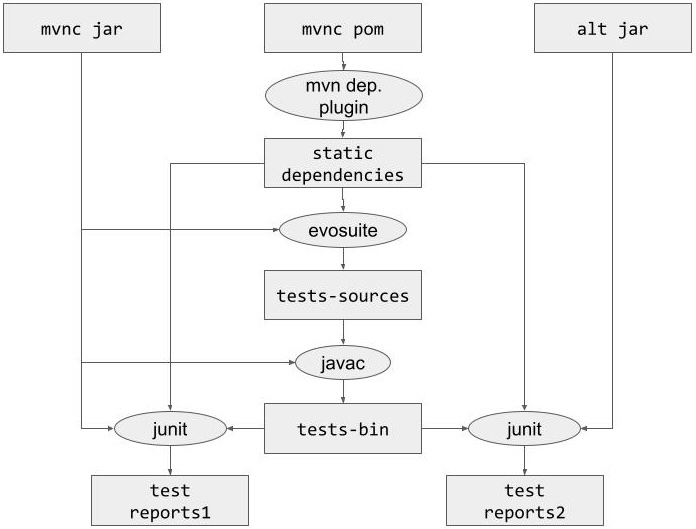
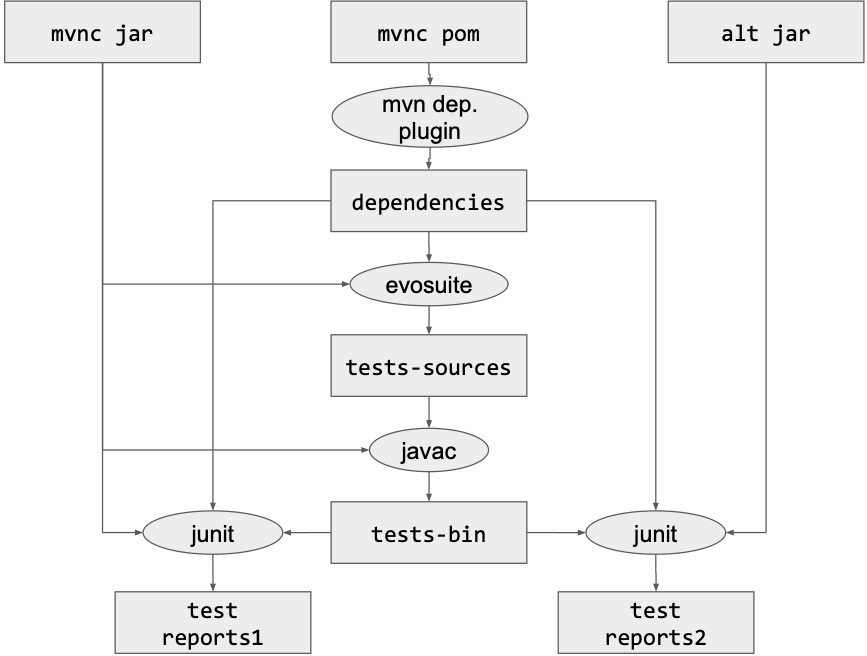
edited paper

diff --git a/paper/cross-build-regression-testing.tex b/paper/cross-build-regression-testing.tex
@@ -102,25 +102,26 @@ test generation, differential testing, reproducible builds, software supply chai
 Software supply chain security has attracted increasing attention recently after a number of high impact attacks such as \textit{equifax}, \textit{log4shell}, \textit{solarwinds} and \textit{xz}~\cite{ellison2010evaluating,martinez2021software,enck2022top,EO14028}. In general, those fall into two categories - compromising components (such as \textit{equifax} and \textit{log4shell}), and compromising processes (such as \textit{solarwinds} and \textit{xz}). When build processes are compromised, attackers can inject malicious code into a program, resulting in a vulnerable program build from clean source code. The classic approach to achieve this is to compromise the compiler~\cite{thompson1984reflections}. 
 
 A common counter measure are reproducible builds~\cite{reproduciblebuild, lamb2021reproducible}. The idea is to perform a second build leading to the same binary. As an adversary is very unlikely to compromise two build environments, this can confirm the integrity of the binary with a high probability. Establishing that the binaries are identical is usually done by means of bitwise comparison, often using cryptographic hashes as proxies.
-Several organisations have started to provide infrastructure and services to provide such secondary builds at-scale, often meeting additional security-related requirements, such as SLSA compliance~\cite{slsa}. Two such products that include support for Java / Maven artifacts are \textit{Google's Assured Open Source Software (gaoss)}~\footnote{\url{https://cloud.google.com/security/products/assured-open-source-software}}, and \textit{Oracle's Build-From-Source (obfs})~\footnote{\url{https://maven.oracle.com/public/}}.
+Several organisations have started to provide infrastructure and services to provide such secondary builds at-scale, often meeting additional security-related requirements, such as SLSA compliance~\cite{slsa}. Two such products that include support to build Java / Maven artifacts are \textit{Google's Assured Open Source Software (gaoss)}~\footnote{\url{https://cloud.google.com/security/products/assured-open-source-software}}, and \textit{Oracle's Build-From-Source (obfs})~\footnote{\url{https://maven.oracle.com/public/}}.
 
 However, there are several challenges with the reproducibility of builds: (i) build environments are difficult to replicate, (ii) locating the source code version (commit, tag or release) associated with a binary release version is not always straightforward and (iii) builds may be non-deterministic~\cite{xiong2022towards,hassanshahi2023macaron,bineqdataset,keshani2024aroma}. In particular, different versions of compilers may employ different compilation strategies, resulting in different, yet functionally equivalent binaries~\cite{xiong2022towards,bineqdataset,schott2024JNorm}.  
 In order to address this, recently bytecode normalisation techniques have been proposed~\cite{xiong2022towards,dietrich2024levelsbinaryequivalencecomparison,schott2024JNorm}. 
 
-From a security analysis point of view, the comparison of binaries from alternative builds is used to detect vulnerabilities: different binaries may suggest that one of them has been compromised, for instance, by a backdoor being added during the build. A comparison based on strict binary equality is likely to result in poor precision as differences between binaries can be explained by the variability of compilers and other tools used in the build toolchain. Low precision is known to have a serious impact on the acceptance of program analysis tools by engineers~\cite{sadowski2018lessons,distefano2019scaling}. Using bytecode normalisation techniques such as \textit{jnorm}~\cite{schott2024JNorm} can help to reduce the false positive rate by identifying \textit{equivalent} binaries. The question arises whether binaries built from the same sources that are not equivalent actually have behavioural differences.   
+From a security analysis point of view, the comparison of binaries from alternative builds is used to detect vulnerabilities: different binaries may suggest that one of them has been compromised, for instance, by a backdoor being added during the build. A comparison based on strict binary equality is likely to result in poor precision as differences between binaries can be explained by the variability of compilers and other tools used in the build toolchain. Low precision is known to have a serious impact on the acceptance of program analysis tools by engineers~\cite{sadowski2018lessons,distefano2019scaling}. Using bytecode normalisation techniques such as \textit{jnorm}~\cite{schott2024JNorm} can help to reduce the false positive rate by identifying \textit{equivalent} binaries. The question arises whether binaries built from the same sources that are not equivalent actually have behavioural differences. A good way to check this is to find or construct test cases to demonstrate such differences.
 
 This is the question we set out to study. We use test case generation with \evosuite~\cite{fraser2011evosuite} to synthesise regression tests for a baseline build, and then use those tests to assess whether these tests behave in the same way on programs that are the result of an alternative  build from the same sources. 
 
-We find that .. 
-
+% Jens: can drop this if we need space
+The paper is organised as follows: in Section~\ref{sec:methodology} we describe the methodology used in our study.  Results are discussed in Section~\ref{sec:results}, followed by a brief overview of related work in Section~\ref{sec:relatedwork} and the conclusion (Section~\ref{sec:conclusion}.
 
 \section{Methodology}
+\label{sec:methodology}
 
 
 
 \subsection{Overview}
 
-An overview of our methodology is depicted in Figure~\ref{fig:methodology}.  As a baseline build we use (the builds used to produce) the artifact distributed on Maven Central\footnote{\url{https://central.sonatype.com/}} as this is the default deployment repository for most open source developers.  From there we obtain the binary (jar file containing Java bytecode) \textit{mvnc jar} and the pom \textit{mvnc pom}. From this pom we extract the \textit{static dependencies} using the Maven dependency plugin~\footnote{\url{https://maven.apache.org/plugins/maven-dependency-plugin/}}.  The \textit{mvnc jar} and the \textit{static dependencies} can then be used as input to generate \textit{tests-sources} with \evosuite, which are then compiled into test binaries \textit{test-bin}.  Finally, those tests can then be executed against the original jar \textit{mvnc jar} and some alternative jar (from a different build) \textit{alt jar}, and the resulting test reports can be compared.
+An overview of our methodology is depicted in Figure~\ref{fig:methodology}.  As a baseline build we use the artifacts distributed on Maven Central\footnote{\url{https://central.sonatype.com/}} as this is the default deployment repository for most open source developers.  From there we obtain the binary (jar file containing Java bytecode) \textit{mvnc jar} and the pom \textit{mvnc pom}. From this pom we extract the \textit{dependencies} using the Maven dependency plugin~\footnote{\url{https://maven.apache.org/plugins/maven-dependency-plugin/}}.  The \textit{mvnc jar} and the \textit{dependencies} can then be used as input to generate \textit{tests-sources} with \evosuite, which are then compiled into test binaries \textit{test-bin}.  Finally, those tests can then be executed against the original jar \textit{mvnc jar} and some alternative jar (from a different build) \textit{alt jar}, and the resulting test reports can be compared.
 
 \begin{figure}[ht!]
 	\centering
@@ -136,7 +137,7 @@ We started with the dataset from \cite{dietrich2024levelsbinaryequivalencecompar
 
 \subsection{Static Preanalysis}
 
-We then run a static pre-analysis to eliminate pairs that are probably equivalent. We first applied \textit{jnorm}, and compared jars by comparing the result of the transformation applied to each class. We then added a custom comparison based on a change in the Java 18 compiler~\footnote{\url{https://github.com/openjdk/jdk/pull/5165}} not yet supported by \textit{jnorm}. This resulted in \inputgen{num-jar-pairs-after-invokevirtual-invokeinterface} pairs of jars, \inputgen{num-jar-pairs-after-invokevirtual-invokeinterface-gaoss} of those pairs with an alternatively built jar from \textit{gaoss}, \inputgen{num-jar-pairs-after-invokevirtual-invokeinterface-obfs} with such a jar from \textit{obfs}.
+We then run a static pre-analysis to eliminate pairs that are probably equivalent. We first applied \textit{jnorm}~\cite{schott2024JNorm} \jens{Tim: can you add a footnote with version and args used here}, and compared jars by comparing the result of the transformation applied to each class. We then added a custom comparison based on a change in the Java 18 compiler~\footnote{\url{https://github.com/openjdk/jdk/pull/5165}} not yet supported by \textit{jnorm}. This resulted in \inputgen{num-jar-pairs-after-invokevirtual-invokeinterface} pairs of jars, \inputgen{num-jar-pairs-after-invokevirtual-invokeinterface-gaoss} of those pairs with an alternatively built jar from \textit{gaoss}, \inputgen{num-jar-pairs-after-invokevirtual-invokeinterface-obfs} with such a jar from \textit{obfs}.
 In total there are \inputgen{num-class-pairs-after-invokevirtual-invokeinterface} classes that differ between \textit{mvnc} and one of the other two providers.
 
 
@@ -145,35 +146,31 @@ In total there are \inputgen{num-class-pairs-after-invokevirtual-invokeinterface
 
 We opted to generate tests for these experiments. The reason is that existing tests that are part of the project are usually executed during builds, i.e., alternative builds would ensure that those tests succeed. 
 
-\todo[inline]{Behnaz to confirm that tests are executed in OBF builds}
+We used \evosuite to generate regression tests. \jens{@Tim: please add version info} While there are several alternatives available for test generation for Java program, recent benchmarks have shown the superior performance of \evosuite~\cite{jahangirova2023sbft} in achieving higher code coverage and mutation scores. 
 
-We used \evosuite to generate regression tests. While there are several alternatives available for Java, recent benchmarks have shown the superior performance of \evosuite~\cite{jahangirova2023sbft} in achieving higher code coverage and mutation scores. 
+%\valerio{I added some background on evosuite and regression testing in general, not sure where we want to put this but I think is important to explain how \evosuite exposes the behavioural differences}
+\evosuite automatically generates test cases for a given object-oriented class under test (CUT). A test case consists of (i) a method call sequence that instantiates and modifies the state of objects of the CUT through method invocations (ii) one or more assertions that predicate on the values returned by the method invocations. The state of objects often dictates program behaviour, so manipulating these states is crucial for achieving high coverage. It is worth noting that \evosuite may need to create and modify objects that do not instantiate the CUT, as the methods of the CUT might require non-primitive parameters. For primitive parameters, \evosuite uses randomized values guided by heuristics. The tool implements an evolutionary algorithm that evolves populations of test cases to maximize code coverage, typically targeting branch coverage.
 
-\valerio{I added some background on evosuite and regression testing in general, not sure where we want to put this but I think is important to explain how \evosuite exposes the behavioural differences}
-\evosuite automatically generates test cases for a given object-oriented class under test (CUT). A test case consists of (i) a method call sequence that instantiates and modifies the state of objects of the CUT through method invocations (ii) one or more assertions that predicate on the values returned by the method invocations. The state of objects often dictates program behavior, so manipulating these states is crucial for achieving high coverage. It is worth noting that \evosuite may need to create and modify objects that do not instantiate the CUT, as the methods of the CUT might require non-primitive parameters. For primitive parameters, \evosuite uses randomized values guided by heuristics. The tool implements an evolutionary algorithm that evolves populations of test cases to maximize code coverage, typically targeting branch coverage.
-
-\evosuite and similar automated testing tools are most effective when running in regression mode due to the oracle problem. In fact, they are predominantly evaluated in this mode~\cite{jahangirova2023sbft,shamshiri2015automatically}. While the oracle problem is one of the greatest challenges in test automation, it is mitigated in the context of regression testing, where we assume that one version is correct. In regression mode, \evosuite adds assertions to the generated test cases that capture the ``implemented'' behavior of the given version. These assertions are based on the actual values returned by method call invocations during execution, without regard for the ``intended'' behavior of the CUT. This approach can effectively expose behavioral differences between two implementations: if a test generated for one version fails on another version, it indicates a behavioral difference.
+\evosuite and similar automated testing tools are most effective when running in regression mode due to the oracle problem. In fact, they are predominantly evaluated in this mode~\cite{jahangirova2023sbft,shamshiri2015automatically}. While the oracle problem is one of the greatest challenges in test automation, it is mitigated in the context of regression testing, where we assume that one version is correct. In regression mode, \evosuite adds assertions to the generated test cases that capture the ``implemented'' behaviour of the given version. These assertions are based on the actual values returned by method call invocations during execution, without regard for the ``intended'' behaviour of the CUT. This approach can effectively expose behavioural differences between two implementations: if a test generated for one version fails on another version, it indicates a behavioural difference.
 
 \evosuite can be set up to generate targeted tests for certain classes. Since the static pre-analysis compares \textit{jar} files by comparing the \textit{.class} files they contain, we can use targeted test generation for those classes only.   
 
-\todo[inline] {Tim: some stats of how many classes there are that are different, perhaps stats , something like: the average number of such classes is X, Y\% of total classes. Mention how we deal with inner classes.  }
+\jens{Tim: some stats of how many classes there are that are different, perhaps stats , something like: the average number of such classes is X, Y\% of total classes. Mention how we deal with inner classes.  }
 
 \evosuite was applied to generate regression tests for the \textit{mvnc} version of each of these \inputgen{num-class-pairs-after-invokevirtual-invokeinterface} differing classes, resulting in \inputgen{num-classes-with-generated-tests} generated test classes comprising in total \inputgen{num-generated-tests} JUnit4 tests, or \inputgen{avg-tests-per-class} tests per differing class on average.
 
 We run \evosuite test generation with the following settings. 
 
-\todo[inline] {Tim: can you please provide details here, OS, JVM version, HW etc, plus evosuite settings in particular generation time}
-
-
+\jens{Tim: can you please provide details here, OS, JVM version, HW etc, plus evosuite settings in particular generation time}
 Resource settings were informed by \cite{jahangirova2023sbft}. 
 
 
-
 \section{Results}
+\label{sec:results}
 
 \subsection{Overview}
 
-\todo[inline] {@Tim please add some summary data}
+\jens{@Tim please add some summary data}
 
 We now discuss the found inconsistencies in detail.
 
@@ -187,7 +184,7 @@ The respective tests are \textit{test00}, \textit{test01}, \textit{test12},\text
 The error occurs during linking, and is related to binary compatibility~\cite{JVM17Spec}. I.e. there are call sites for this method in two undertow methods (\textit{UpgradeServletInputStream.readIntoBufferNonBlocking} and \textit{UpgradeServletInputStream.readIntoBuffer}, respectively), however, the method is missing. 
 A closer inspection reveals that the \textit{gaoss} version was build with Java 11~\footnote{The jar manifest contains the entry \textit{Build-Jdk-Spec: 11}}. In Java 11, \textit{java.nio.ByteBuffer.flip()Ljava/nio/ByteBuffer;} exists, and the respective call site is added. The Maven Central jar was built against Java 8, where this method did not exist.  Instead, a call site to invoke \textit{java/nio/ByteBuffer.flip:()Ljava/nio/Buffer;} is added by the compiler~\footnote{Unlike Java source code, Java byte code supports return type overloading, and changing the return types alters the descriptor, and therefore is a binary incompatible change causing linkage errors.~\cite{JVM17Spec,dietrich2014broken}}.
 
-Therefore, this issue is caused by the different JDK versions used during the build. This is surprising, as reproducing builds try to replicate the build environment in order to maximise the chances of the build to succeed and the resulting binary to be identical to the binary from the build to be reproduced. In this case the engineers seem to have attempted this somehow by setting the compiler target level to bytecode version 52, which is associated with Java 8~\cite[Sect. 4.1]{JVM17Spec} instead of using version 55 associated with Java 11.  However, they did not account for the fact that there are changes in the standard library that effect how bytecode is being compiled. Since Java 9 (JEP247~\cite{jep247}), there is a \textit{-release} compiler  flag that can be used to avoid issues like this. It is likely that engineers used only \textit{-target} instead. The generated tests reveal those changes.  
+Therefore, this issue is caused by the different JDK versions used during the build. This is surprising, as reproducing builds usually try to replicate the build environment in order to maximise the chances of the build to succeed and the resulting binary to be identical to the binary from the build to be reproduced. In this case the engineers seem to have attempted this somehow by setting the compiler target level to bytecode version 52, which is associated with Java 8~\cite[Sect. 4.1]{JVM17Spec} instead of using version 55 associated with Java 11.  However, they did not account for the fact that there are changes in the standard library that have an impact on how bytecode is being compiled. Since Java 9 (JEP247~\cite{jep247}), there is a \textit{-release} compiler  flag that can be used to avoid issues like this. It is likely that engineers used only \textit{-target} instead. The generated tests reveal those changes.  
 
 \begin{table}[h]
 	\begin{tabular}{|p{1.8cm}p{0.9cm}p{1.5cm}p{1.2cm}p{1.2cm}|}
@@ -200,7 +197,7 @@ Therefore, this issue is caused by the different JDK versions used during the bu
 	\label{tab:nosuchmethoderror}
 \end{table}
 
-Table~\ref{tab:nosuchmethoderror} summarises the results. One might expect different behaviour not revealed by tests when tests are executed with Java 11, as the call sites in those two binaries refer to different methods in the standard libraries. However, this is not the case as the Java 11 compiler does create a synthetic \textit{bridge method} \textit{java.nio.ByteBuffer.flip()Ljava/nio/Buffer;}  that invokes \textit{java.nio.ByteBuffer.flip()Ljava/nio/ByteBuffer;}. This method is used during the  runtime resolution of the virtual call for the binary from Maven Central.  
+Table~\ref{tab:nosuchmethoderror} summarises our analysis. One might expect different behaviour not revealed by tests when tests are executed with Java 11, as the call sites in those two binaries refer to different methods in the standard libraries. However, this is not the case as the Java compiler does create a synthetic \textit{bridge method} when compiling overriding methods with co-variant return types. In this case, it creates the bridge method \textit{java.nio.ByteBuffer.flip()Ljava/nio/Buffer;}  that invokes \textit{java.nio.ByteBuffer.flip()Ljava/nio/ByteBuffer;}. This bridge method is used during the  runtime resolution of the virtual call for the binary from Maven Central.  
 
 
 \subsection{Evosuite Mock Generation}
@@ -217,7 +214,7 @@ Test inconsistencies are all caused by the same pattern.  The \textit{obfs} bina
 
 
 \begin{table}[h]
-	\begin{tabular}{|p{2.0cm}p{1.2cm}p{1.8cm}p{1.5cm}|}
+	\begin{tabular}{|p{2.0cm}p{1.2cm}p{1.5cm}p{1.3cm}|}
 		\hline
 		build         & bytecode version & JDK version used to build & test results (Java 8)                                            \\ \hline 
 		Maven Central & 52       & 21                        & pass                                                                                        \\
@@ -237,9 +234,9 @@ comp.toString();
 
 Up to Java 17, this call was compiled to \textit{invokevirtual Object::toString}~\footnote{Package names and descriptors are omitted for brevity}. Starting with Java 18, this call is now compiled to \textit{invokeinterface Comparable::toString}.
 
-This results in changes to runtime behaviour when using the \textit{evosuite} runtime, as \textit{evosuite} replaces those calls with calls to mocks, such as  \textit{org.evosuite.runtime.System::toString}. This only replaces the older call pattern, not the new one. 
+This results in changes to runtime behaviour when using the \evosuite runtime, as \evosuite replaces those calls with calls to mocks, such as  \textit{org.evosuite.runtime.System::toString}. This only replaces the older call pattern, not the new one. 
 
-An example of such inconsistent behaviour we have encountered  is when a \textit{toString} implementation is recursive. Then \textit{evosuite} generates a test with a self-referential data structure that expects a \textit{StackOverFlowError} to occur. However, when the mock substitution is performed by \textit{evosuite}, this error does not occur as the mock \textit{toString} method is not recursive, and the test fails. I.e. the test outcome now depends on whether \textit{evosuite} does perform the substitution or not, and this depends on the compiler that had been used.
+An example of such inconsistent behaviour we have encountered  is when a \textit{toString} implementation is recursive. Then \evosuite generates a test with a self-referential data structure that expects a \textit{StackOverFlowError} to occur when \textit{toString} is invoked on this data structure. However, when the mock substitution is performed by \evosuite, this error does not occur as the mock \textit{toString} method is not recursive, and the test fails. I.e. the test outcome now depends on whether \evosuite does perform the substitution or not, and this depends on the compiler that had been used.
 
 In this case we think the misconfiguration is on the Maven Central side, where a very recent Java version has been used to create a binary compatible with Java 8, but this hasn't been configured correctly.
 
@@ -251,29 +248,21 @@ In this case we think the misconfiguration is on the Maven Central side, where a
 
 
 \section{Related Work}
+\label{sec:relatedwork}
 
-\emph{Differential Testing}\cite{difftesting} is an automated approach that identifies various errors by comparing the behavior of two or more comparable systems\cite{xie2007towards,jin10
-,diffgen}. In the context of object-oriented (OO) programming, notable techniques include \textsc{Diffut}\cite{xie2007towards}, \textsc{BeRT}\cite{jin10
-}, and \textsc{DiffGen}~\cite{diffgen}. Similar to our approach, these techniques leverage the differences between two software versions to generate test cases that reveal behavioral discrepancies. However, our approach focuses on comparing binaries, which required us to design and implement specialized ad-hoc analyses.
+\emph{Differential Testing}\cite{difftesting} is an automated approach that identifies various errors by comparing the behaviour of two or more comparable systems\cite{xie2007towards,jin10:automated,diffgen}. In the context of object-oriented (OO) programming, notable techniques include \textsc{Diffut}\cite{xie2007towards}, \textsc{BeRT}\cite{jin10:automated}, and \textsc{DiffGen}~\cite{diffgen}. Similar to our approach, these techniques leverage the differences between two software versions to generate test cases that reveal behavioural discrepancies. However, our approach focuses on comparing binaries, which required us to design and implement specialized ad-hoc analyses.
 
-Although the implementation details may differ, all differential testing techniques share the core idea of generating and executing the same test cases on the versions being compared to reveal behavioral differences. % One of the most common applications of differential testing is regression testing, where two versions of the same program are compared. 
+Although the implementation details may differ, all differential testing techniques share the core idea of generating and executing the same test cases on the versions being compared to reveal behavioural differences. % One of the most common applications of differential testing is regression testing, where two versions of the same program are compared. 
 While differential testing has been effective in detecting semantic errors in various domains (e.g., C compilers~\cite{Yang:compiler:pldi:2011} and JVM implementations~\cite{Chen:jvmdiff:pldi:2016}), to the best of our knowledge, it has not yet been applied to identify differences between alternative builds of the same program version.
 
 
-
-
-
-
 \section{Conclusion}
+\label{sec:conclusion}
 
+In this paper we have explored a novel use case for behavioural regression testing: to use differential testing to assess the behavioural equivalence of binaries built independently from the same source code. Our research was motivated by software supply chain security. While we did not find any evidence that components in our data set had been compromised, we did find two interesting cases of build misconfiguration.  
 
+\jens{add some ideas for future work}
 
-
-
-
-
-
- \todo[inline]{complete}
 
 \bibliographystyle{plain}
 \bibliography{references}
